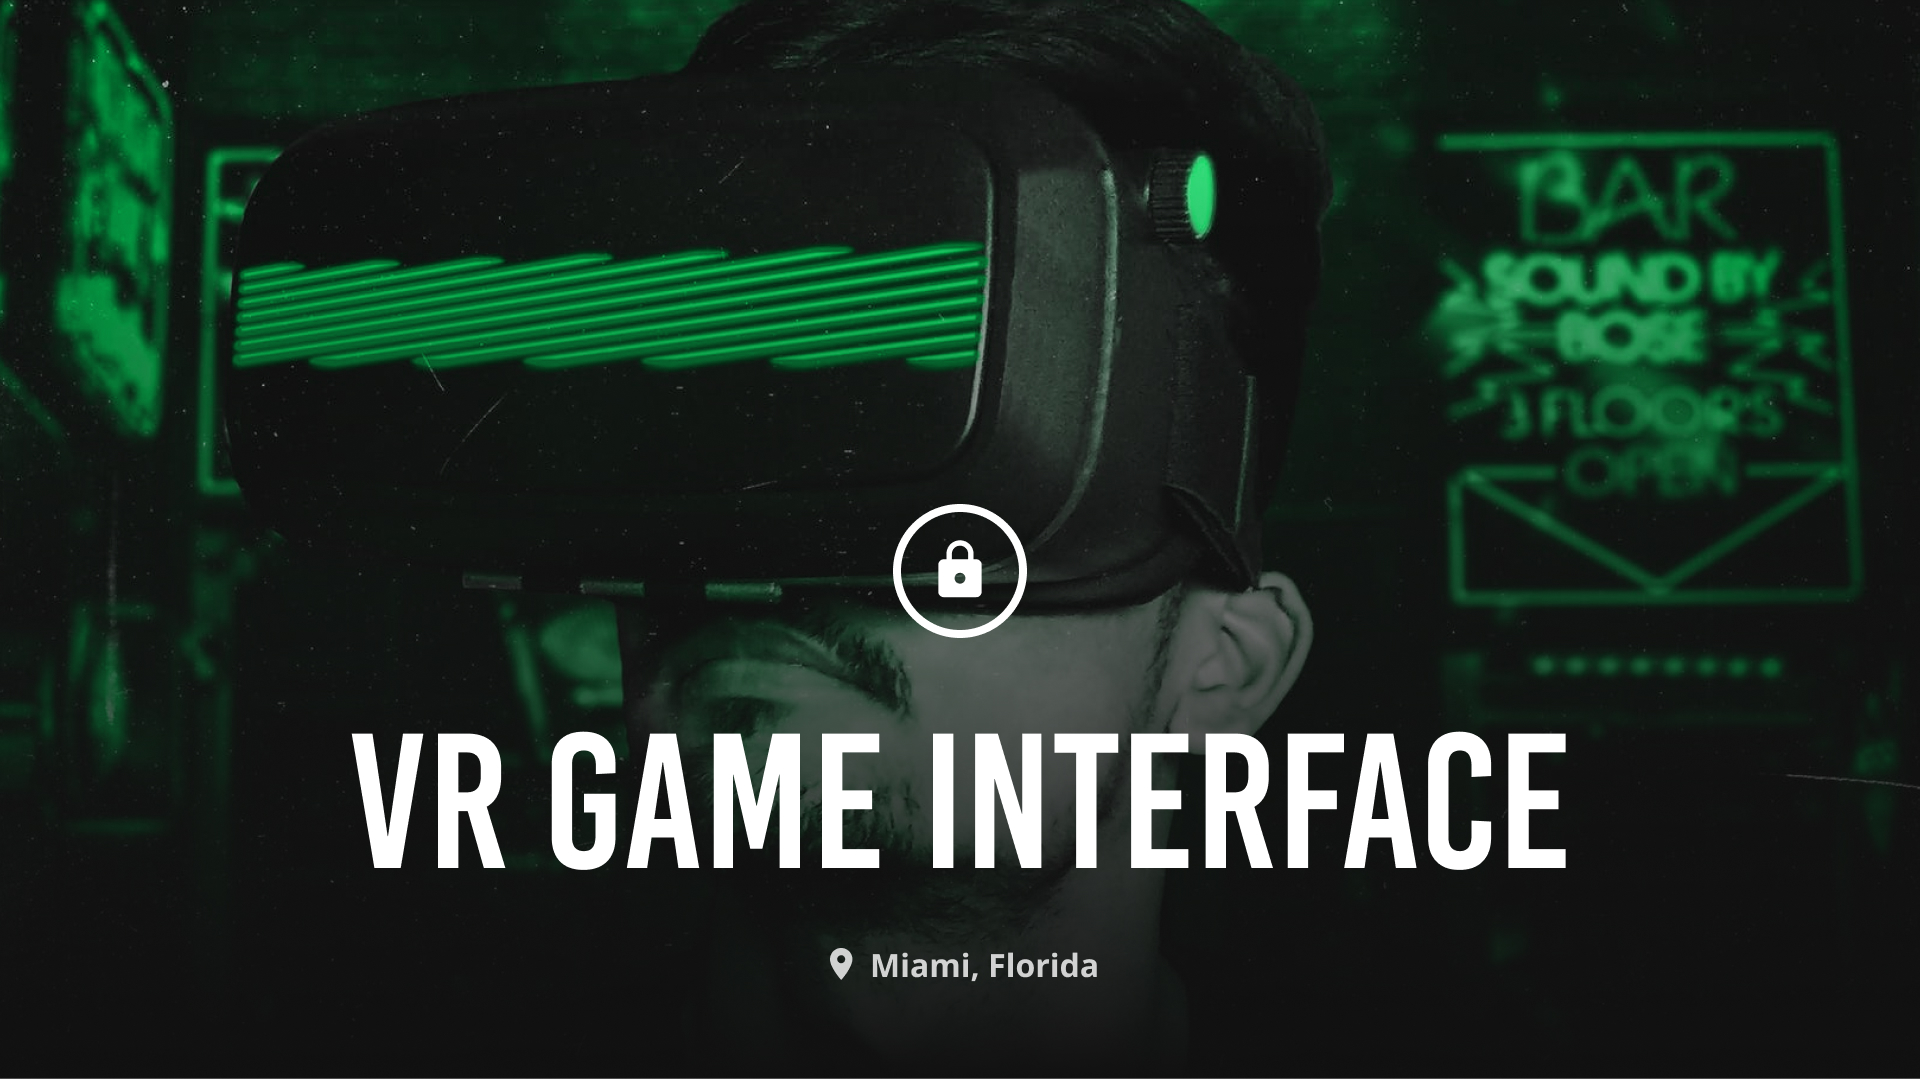
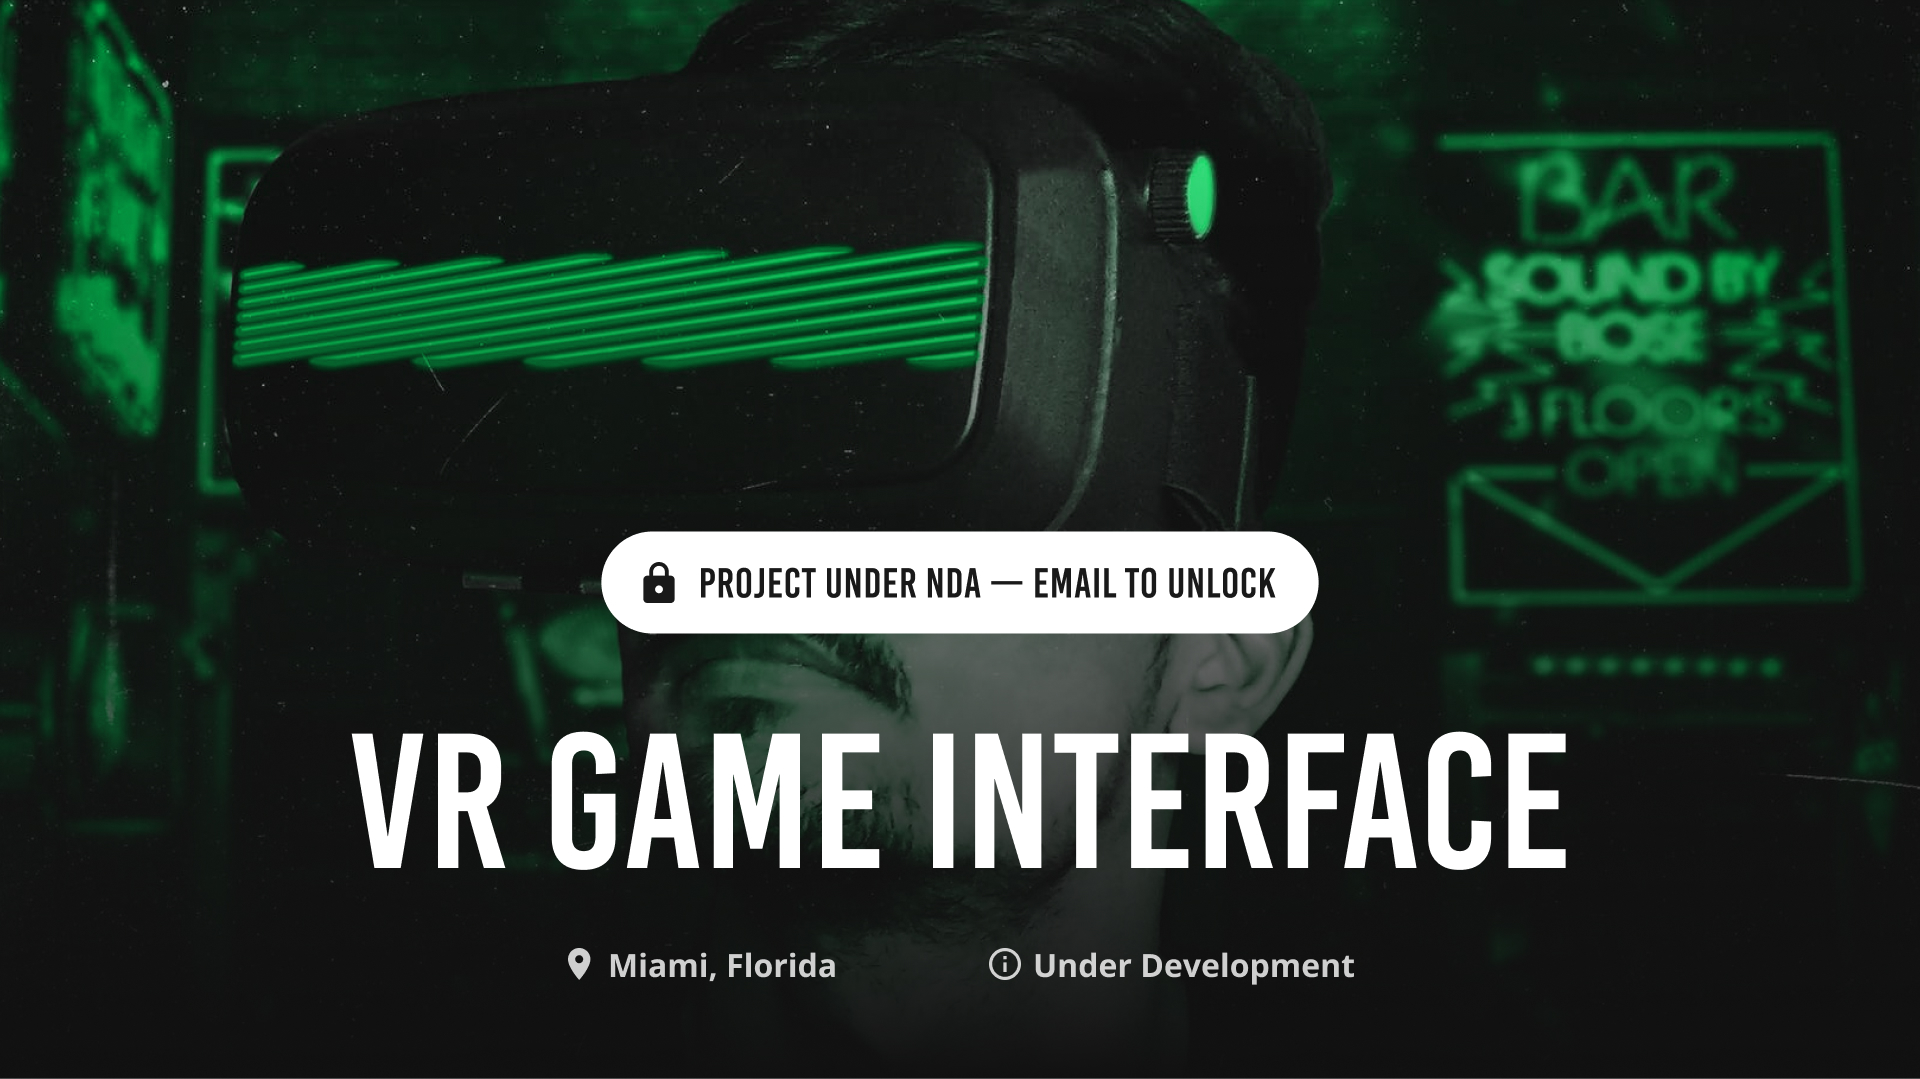
Project images added + effects added

Changed region(s): [[0.3125, 0.4588, 0.6875, 0.6117], [0.2812, 0.8869, 0.7188, 0.9175]]

diff --git a/index.html b/index.html
@@ -198,14 +198,13 @@
           <div class="site-content e2e-site-content">
             <main>
               <section class="project-covers" data-context="page.gallery.covers">
-                <a class="js-editable-target editable project-cover js-project-cover-touch hold-space"
+                <a class="project--vr js-editable-target editable project-cover js-project-cover-touch hold-space"
                   href="/tickdown-todo-app" data-context="pages"
                   data-identity="id:p5efaad8e921b4792f671fcb9f47893de3b251888166b44fd5c970">
                   <div class="cover-content-container">
                     <div class="cover-image-wrap">
                       <div class="cover-image">
                         <div class="cover cover-normal">
-      
                           <img class="cover__img js-lazy image-loaded"
                             src="Project Images\Locked-vr.jpg"
                             sizes="(max-width: 540px) 100vw, (max-width: 768px) 50vw, calc(100vw / 2)">
@@ -222,17 +221,15 @@
                     </div>
                   </div>
                 </a>
-                <a class="js-editable-target editable project-cover js-project-cover-touch hold-space"
+                <a class="project--todo js-editable-target editable project-cover js-project-cover-touch hold-space"
                   href="/tech-corp-game-ui" data-context="pages"
                   data-identity="id:p5efaad8f0079b2259e84e964322d370e44b4d20f8c91449e06c7c">
                   <div class="cover-content-container">
                     <div class="cover-image-wrap">
                       <div class="cover-image">
                         <div class="cover cover-normal">
-      
                           <img class="cover__img js-lazy image-loaded"
-                            src="https://pro2-bar-s3-cdn-cf3.myportfolio.com/52b96364f30b5b95eeea95604ddaa5ed/e3331f60-6af2-438c-88ea-1099fd2b97d0_car_16x9.jpg?h=f4f12f50b87228077692314b2f748360"
-                            srcset="https://pro2-bar-s3-cdn-cf3.myportfolio.com/52b96364f30b5b95eeea95604ddaa5ed/e3331f60-6af2-438c-88ea-1099fd2b97d0_carw_16x9x640.jpg?h=29c2afe8532b107c911df71d61b1fa67 640w, https://pro2-bar-s3-cdn-cf3.myportfolio.com/52b96364f30b5b95eeea95604ddaa5ed/e3331f60-6af2-438c-88ea-1099fd2b97d0_carw_16x9x1280.jpg?h=80509bb68776497640b1d50c4754c519 1280w, https://pro2-bar-s3-cdn-cf3.myportfolio.com/52b96364f30b5b95eeea95604ddaa5ed/e3331f60-6af2-438c-88ea-1099fd2b97d0_carw_16x9x1366.jpg?h=f7cecc77fa5eade96d87e6ae15b76173 1366w, https://pro2-bar-s3-cdn-cf3.myportfolio.com/52b96364f30b5b95eeea95604ddaa5ed/e3331f60-6af2-438c-88ea-1099fd2b97d0_carw_16x9x1920.jpg?h=1b5f5890b24f8a414540e987ee977701 1920w, https://pro2-bar-s3-cdn-cf3.myportfolio.com/52b96364f30b5b95eeea95604ddaa5ed/e3331f60-6af2-438c-88ea-1099fd2b97d0_carw_16x9x2560.jpg?h=8fa82667f3ae802b4d3e1fa601afccfb 2560w, https://pro2-bar-s3-cdn-cf3.myportfolio.com/52b96364f30b5b95eeea95604ddaa5ed/e3331f60-6af2-438c-88ea-1099fd2b97d0_carw_16x9x5120.jpg?h=415d45cc09697c8856ed4d81ad6b4787 5120w"
+                            src="Project Images/to-do.jpg"
                             sizes="(max-width: 540px) 100vw, (max-width: 768px) 50vw, calc(100vw / 2)">
                         </div>
                       </div>
@@ -247,17 +244,15 @@
                     </div>
                   </div>
                 </a>
-                <a class="js-editable-target editable project-cover js-project-cover-touch hold-space"
+                <a class="project--webdev js-editable-target editable project-cover js-project-cover-touch hold-space"
                   href="/esports-betting-platform" data-context="pages"
                   data-identity="id:p5efaad8fc7135ab1e07ba6fe9810fd7f24e581de690615c703966">
                   <div class="cover-content-container">
                     <div class="cover-image-wrap">
                       <div class="cover-image">
                         <div class="cover cover-normal">
-      
                           <img class="cover__img js-lazy image-loaded"
-                            src="https://pro2-bar-s3-cdn-cf4.myportfolio.com/52b96364f30b5b95eeea95604ddaa5ed/f200d5c3-e01b-4601-a399-e3599e02dfb3_car_16x9.jpg?h=a65419dced52e131a2401666d1507d26"
-                            srcset="https://pro2-bar-s3-cdn-cf4.myportfolio.com/52b96364f30b5b95eeea95604ddaa5ed/f200d5c3-e01b-4601-a399-e3599e02dfb3_carw_16x9x640.jpg?h=81a48c14d8b19ed6d9b35f523f4c0437 640w, https://pro2-bar-s3-cdn-cf4.myportfolio.com/52b96364f30b5b95eeea95604ddaa5ed/f200d5c3-e01b-4601-a399-e3599e02dfb3_carw_16x9x1280.jpg?h=fe388baac75ebbfaf38c5b3798c4b09b 1280w, https://pro2-bar-s3-cdn-cf4.myportfolio.com/52b96364f30b5b95eeea95604ddaa5ed/f200d5c3-e01b-4601-a399-e3599e02dfb3_carw_16x9x1366.jpg?h=3ea3bc88aa09a40ddf31510138395026 1366w, https://pro2-bar-s3-cdn-cf4.myportfolio.com/52b96364f30b5b95eeea95604ddaa5ed/f200d5c3-e01b-4601-a399-e3599e02dfb3_carw_16x9x1920.jpg?h=cb0949ce78ac2c2186cac5545dbf095e 1920w, https://pro2-bar-s3-cdn-cf4.myportfolio.com/52b96364f30b5b95eeea95604ddaa5ed/f200d5c3-e01b-4601-a399-e3599e02dfb3_carw_16x9x2560.jpg?h=bfc1c7a4f511b11cb78616e0d5ce296b 2560w, https://pro2-bar-s3-cdn-cf4.myportfolio.com/52b96364f30b5b95eeea95604ddaa5ed/f200d5c3-e01b-4601-a399-e3599e02dfb3_carw_16x9x5120.jpg?h=674bbed01337257f20656fbc78e19ce7 5120w"
+                            src="Project Images/Locked - web dev.jpg"
                             sizes="(max-width: 540px) 100vw, (max-width: 768px) 50vw, calc(100vw / 2)">
                         </div>
                       </div>
@@ -272,17 +267,15 @@
                     </div>
                   </div>
                 </a>
-                <a class="js-editable-target editable project-cover js-project-cover-touch hold-space"
+                <a class="project--healthcare js-editable-target editable project-cover js-project-cover-touch hold-space"
                   href="/vr-game-interface" data-context="pages"
                   data-identity="id:p5efaad903c461ac8a6d9269048230d5747385062cc0d83e12f94b">
                   <div class="cover-content-container">
                     <div class="cover-image-wrap">
                       <div class="cover-image">
                         <div class="cover cover-normal">
-      
                           <img class="cover__img js-lazy image-loaded"
-                            src="https://pro2-bar-s3-cdn-cf5.myportfolio.com/52b96364f30b5b95eeea95604ddaa5ed/6b95d788-fae3-449c-b88d-2dcedc1da4b3_car_16x9.jpg?h=039549ffa64a723f1c172f4e9b58f2ca"
-                            srcset="https://pro2-bar-s3-cdn-cf5.myportfolio.com/52b96364f30b5b95eeea95604ddaa5ed/6b95d788-fae3-449c-b88d-2dcedc1da4b3_carw_16x9x640.jpg?h=39067d8587430041b70edee5c33eabb2 640w, https://pro2-bar-s3-cdn-cf5.myportfolio.com/52b96364f30b5b95eeea95604ddaa5ed/6b95d788-fae3-449c-b88d-2dcedc1da4b3_carw_16x9x1280.jpg?h=c75a1525832c2f19af43245fdcab7309 1280w, https://pro2-bar-s3-cdn-cf5.myportfolio.com/52b96364f30b5b95eeea95604ddaa5ed/6b95d788-fae3-449c-b88d-2dcedc1da4b3_carw_16x9x1366.jpg?h=b8c463846508fee16a2cb952ddf88fb0 1366w, https://pro2-bar-s3-cdn-cf5.myportfolio.com/52b96364f30b5b95eeea95604ddaa5ed/6b95d788-fae3-449c-b88d-2dcedc1da4b3_carw_16x9x1920.jpg?h=0c8dc418a2e165dcfeb6fd5117297b3c 1920w, https://pro2-bar-s3-cdn-cf5.myportfolio.com/52b96364f30b5b95eeea95604ddaa5ed/6b95d788-fae3-449c-b88d-2dcedc1da4b3_carw_16x9x2560.jpg?h=3d1bf0bba1e81ece3aabb67eeb9a4737 2560w, https://pro2-bar-s3-cdn-cf5.myportfolio.com/52b96364f30b5b95eeea95604ddaa5ed/6b95d788-fae3-449c-b88d-2dcedc1da4b3_carw_16x9x5120.jpg?h=7f7c024ab516d53b672648cc994598e1 5120w"
+                            src="Project Images/healthcare.jpg"
                             sizes="(max-width: 540px) 100vw, (max-width: 768px) 50vw, calc(100vw / 2)">
                         </div>
                       </div>
@@ -297,17 +290,15 @@
                     </div>
                   </div>
                 </a>
-                <a class="js-editable-target editable project-cover js-project-cover-touch hold-space"
+                <a class="project--esports js-editable-target editable project-cover js-project-cover-touch hold-space"
                   href="/vr-game-interface" data-context="pages"
                   data-identity="id:p5efaad903c461ac8a6d9269048230d5747385062cc0d83e12f94b">
                   <div class="cover-content-container">
                     <div class="cover-image-wrap">
                       <div class="cover-image">
                         <div class="cover cover-normal">
-      
                           <img class="cover__img js-lazy image-loaded"
-                            src="https://pro2-bar-s3-cdn-cf5.myportfolio.com/52b96364f30b5b95eeea95604ddaa5ed/6b95d788-fae3-449c-b88d-2dcedc1da4b3_car_16x9.jpg?h=039549ffa64a723f1c172f4e9b58f2ca"
-                            srcset="https://pro2-bar-s3-cdn-cf5.myportfolio.com/52b96364f30b5b95eeea95604ddaa5ed/6b95d788-fae3-449c-b88d-2dcedc1da4b3_carw_16x9x640.jpg?h=39067d8587430041b70edee5c33eabb2 640w, https://pro2-bar-s3-cdn-cf5.myportfolio.com/52b96364f30b5b95eeea95604ddaa5ed/6b95d788-fae3-449c-b88d-2dcedc1da4b3_carw_16x9x1280.jpg?h=c75a1525832c2f19af43245fdcab7309 1280w, https://pro2-bar-s3-cdn-cf5.myportfolio.com/52b96364f30b5b95eeea95604ddaa5ed/6b95d788-fae3-449c-b88d-2dcedc1da4b3_carw_16x9x1366.jpg?h=b8c463846508fee16a2cb952ddf88fb0 1366w, https://pro2-bar-s3-cdn-cf5.myportfolio.com/52b96364f30b5b95eeea95604ddaa5ed/6b95d788-fae3-449c-b88d-2dcedc1da4b3_carw_16x9x1920.jpg?h=0c8dc418a2e165dcfeb6fd5117297b3c 1920w, https://pro2-bar-s3-cdn-cf5.myportfolio.com/52b96364f30b5b95eeea95604ddaa5ed/6b95d788-fae3-449c-b88d-2dcedc1da4b3_carw_16x9x2560.jpg?h=3d1bf0bba1e81ece3aabb67eeb9a4737 2560w, https://pro2-bar-s3-cdn-cf5.myportfolio.com/52b96364f30b5b95eeea95604ddaa5ed/6b95d788-fae3-449c-b88d-2dcedc1da4b3_carw_16x9x5120.jpg?h=7f7c024ab516d53b672648cc994598e1 5120w"
+                            src="Project Images/Locked - esports.jpg"
                             sizes="(max-width: 540px) 100vw, (max-width: 768px) 50vw, calc(100vw / 2)">
                         </div>
                       </div>
@@ -322,18 +313,16 @@
                     </div>
                   </div>
                 </a>
-                <a class="js-editable-target editable project-cover js-project-cover-touch hold-space"
-                   href="https://www.behance.net/oyown" data-context="pages"
+                <a class="project--ticket js-editable-target editable project-cover js-project-cover-touch hold-space"
+                  href="/vr-game-interface" data-context="pages"
                   data-identity="id:p5efaad903c461ac8a6d9269048230d5747385062cc0d83e12f94b">
                   <div class="cover-content-container">
                     <div class="cover-image-wrap">
                       <div class="cover-image">
-                        <div class="cover cover-normal is-more-project">
-                            <h1>See All projects</h1>
-                          <!-- <img class="cover__img js-lazy image-loaded"
-                            src="https://pro2-bar-s3-cdn-cf5.myportfolio.com/52b96364f30b5b95eeea95604ddaa5ed/6b95d788-fae3-449c-b88d-2dcedc1da4b3_car_16x9.jpg?h=039549ffa64a723f1c172f4e9b58f2ca"
-                            srcset="https://pro2-bar-s3-cdn-cf5.myportfolio.com/52b96364f30b5b95eeea95604ddaa5ed/6b95d788-fae3-449c-b88d-2dcedc1da4b3_carw_16x9x640.jpg?h=39067d8587430041b70edee5c33eabb2 640w, https://pro2-bar-s3-cdn-cf5.myportfolio.com/52b96364f30b5b95eeea95604ddaa5ed/6b95d788-fae3-449c-b88d-2dcedc1da4b3_carw_16x9x1280.jpg?h=c75a1525832c2f19af43245fdcab7309 1280w, https://pro2-bar-s3-cdn-cf5.myportfolio.com/52b96364f30b5b95eeea95604ddaa5ed/6b95d788-fae3-449c-b88d-2dcedc1da4b3_carw_16x9x1366.jpg?h=b8c463846508fee16a2cb952ddf88fb0 1366w, https://pro2-bar-s3-cdn-cf5.myportfolio.com/52b96364f30b5b95eeea95604ddaa5ed/6b95d788-fae3-449c-b88d-2dcedc1da4b3_carw_16x9x1920.jpg?h=0c8dc418a2e165dcfeb6fd5117297b3c 1920w, https://pro2-bar-s3-cdn-cf5.myportfolio.com/52b96364f30b5b95eeea95604ddaa5ed/6b95d788-fae3-449c-b88d-2dcedc1da4b3_carw_16x9x2560.jpg?h=3d1bf0bba1e81ece3aabb67eeb9a4737 2560w, https://pro2-bar-s3-cdn-cf5.myportfolio.com/52b96364f30b5b95eeea95604ddaa5ed/6b95d788-fae3-449c-b88d-2dcedc1da4b3_carw_16x9x5120.jpg?h=7f7c024ab516d53b672648cc994598e1 5120w"
-                            sizes="(max-width: 540px) 100vw, (max-width: 768px) 50vw, calc(100vw / 2)"> -->
+                        <div class="cover cover-normal">
+                          <img class="cover__img js-lazy image-loaded"
+                            src="Project Images/website.jpg"
+                            sizes="(max-width: 540px) 100vw, (max-width: 768px) 50vw, calc(100vw / 2)">
                         </div>
                       </div>
                     </div>

diff --git a/external/main.css b/external/main.css
@@ -65,7 +65,8 @@
     display: inline-block;
     opacity: 0.7; }
   .link-transition a {
-    transition: background 0.2s ease, color 0.2s ease; }
+    /* transition: background 0.2s ease, color 0.2s ease;  */
+  }
     .link-transition a svg {
       transition: fill 0.2s ease; }
   
@@ -1834,7 +1835,7 @@
       .project-cover .cover-image {
         position: relative;
         -webkit-transform: translateZ(0); }
-        .project-cover .cover-image:after {
+        /* .project-cover .cover-image:after {
           -webkit-transition: background-color 0.2s ease, opacity 0.2s ease;
           -moz-transition: background-color 0.2s ease, opacity 0.2s ease;
           transition: background-color 0.2s ease, opacity 0.2s ease;
@@ -1844,7 +1845,7 @@
           left: 0;
           position: absolute;
           top: 0;
-          width: 100%; }
+          width: 100%; } */
       .project-cover .cover {
         background-position: center center;
         background-repeat: no-repeat;

diff --git a/local-override.css b/local-override.css
@@ -5,6 +5,10 @@
   }
 }
 
+.details-wrap{
+  display: none !important;
+}
+
 .cover.cover-normal{
     background: #191919;
     color: #fff;
@@ -12,4 +16,14 @@
     align-items: center;
     justify-content: center;
     font-size: 32px;
+}
+
+/* blend mode */
+.cover-image-wrap {
+  mix-blend-mode: luminosity;
+  transition: mix-blend-mode 0.3s ease;
+}
+
+.cover-image-wrap:hover {
+  mix-blend-mode: unset;
 }
